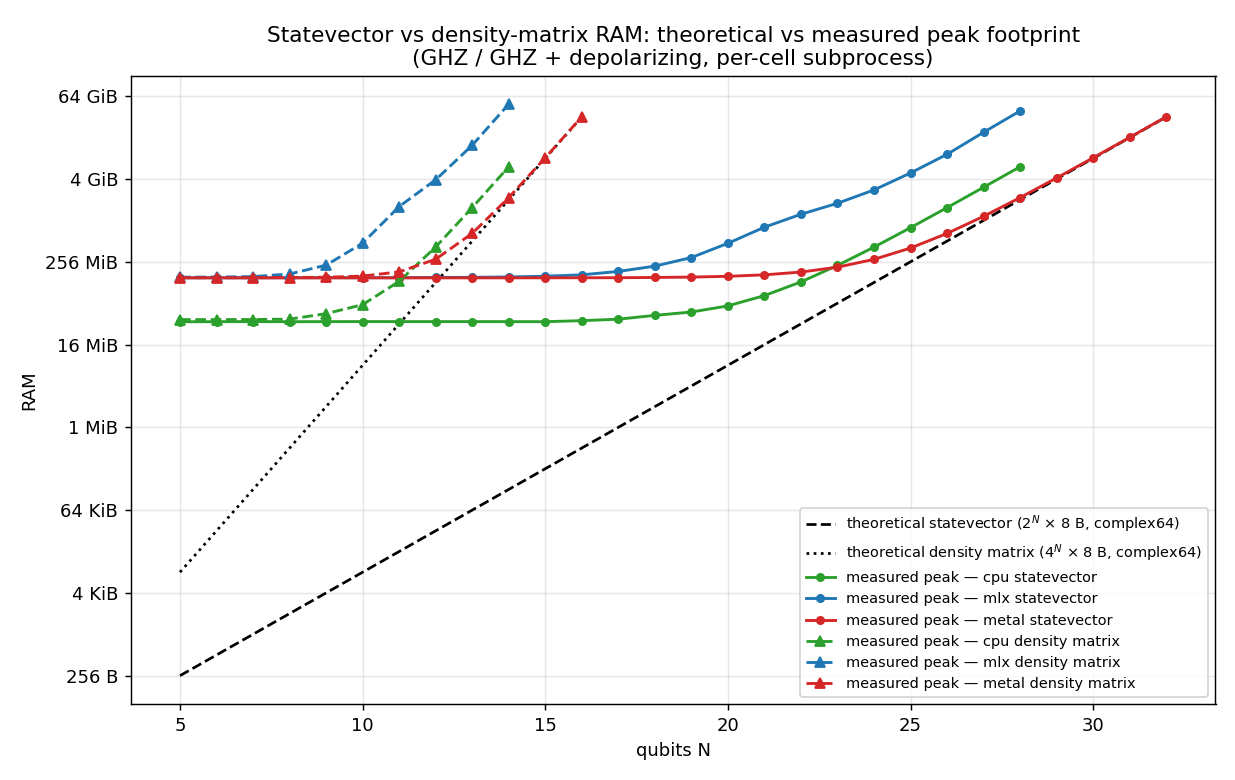
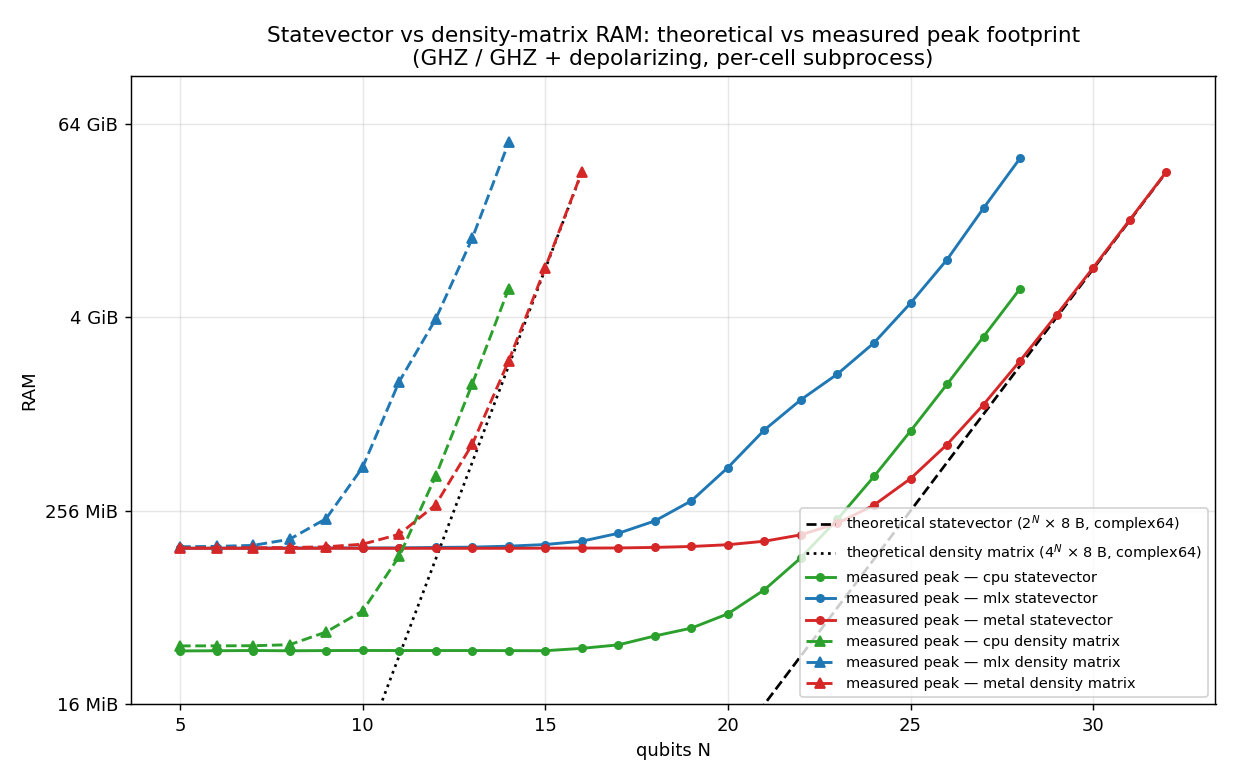
Floor the memory chart y-axis at 16 MiB
Everything below 16 MiB hides under the interpreter baseline anyway, so
the empty decades of theoretical line just squashed the measured curves;
pin the legend to the lower right, the only quadrant with no series.

diff --git a/benchmarks/bench_memory.py b/benchmarks/bench_memory.py
@@ -295,11 +295,13 @@ def make_plot(results: dict, backends: list[str], path: str) -> None:
             linewidth=1.5,
             label="theoretical statevector (2$^N$ × 8 B, complex64)",
         )
-    lo = min(theory.values()) if theory else 2.0**20
+    # Floor the y-axis at 16 MiB: below that everything hides under the
+    # interpreter baseline anyway, and the empty decades of theoretical line
+    # only squash the measured curves.
+    lo = 2.0**24
     hi = max(theory.values()) if theory else lo
     dm_theory = {int(k): v for k, v in results.get("theoretical_dm_bytes", {}).items()}
     if dm_theory:
-        lo = min(lo, min(dm_theory.values()))
         dns = sorted(dm_theory)
         ax.plot(
             dns,
@@ -345,6 +347,7 @@ def make_plot(results: dict, backends: list[str], path: str) -> None:
     ax.set_xlabel("qubits N")
     ax.set_ylabel("RAM")
     ax.set_yscale("log", base=2)
+    ax.set_ylim(bottom=lo)
     # Readable byte ticks every 16x instead of raw 2^k exponents.
     exps = range(int(np.floor(np.log2(lo))) // 4 * 4, int(np.ceil(np.log2(hi))) + 4, 4)
     ax.yaxis.set_major_locator(FixedLocator([2.0**e for e in exps]))
@@ -355,7 +358,7 @@ def make_plot(results: dict, backends: list[str], path: str) -> None:
         "(GHZ / GHZ + depolarizing, per-cell subprocess)"
     )
     ax.grid(True, which="both", alpha=0.3)
-    ax.legend(fontsize=8)
+    ax.legend(fontsize=8, loc="lower right")
     fig.tight_layout()
     fig.savefig(path, dpi=130)
     print(f"Chart -> {path}")